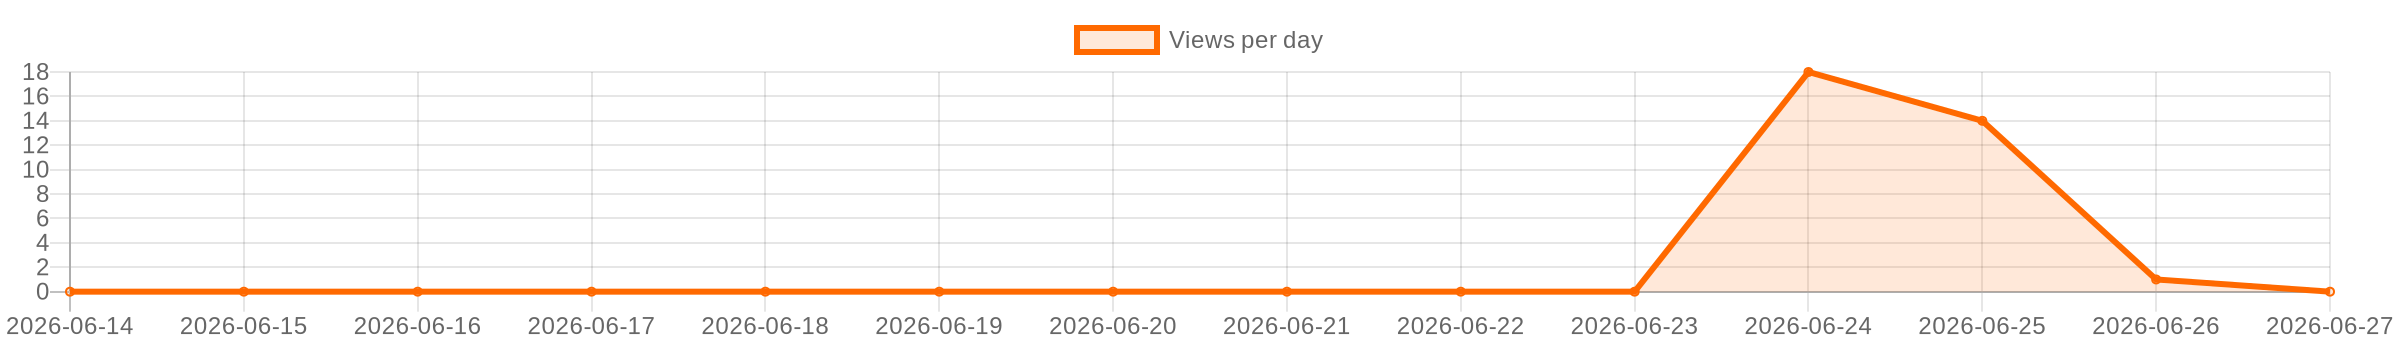
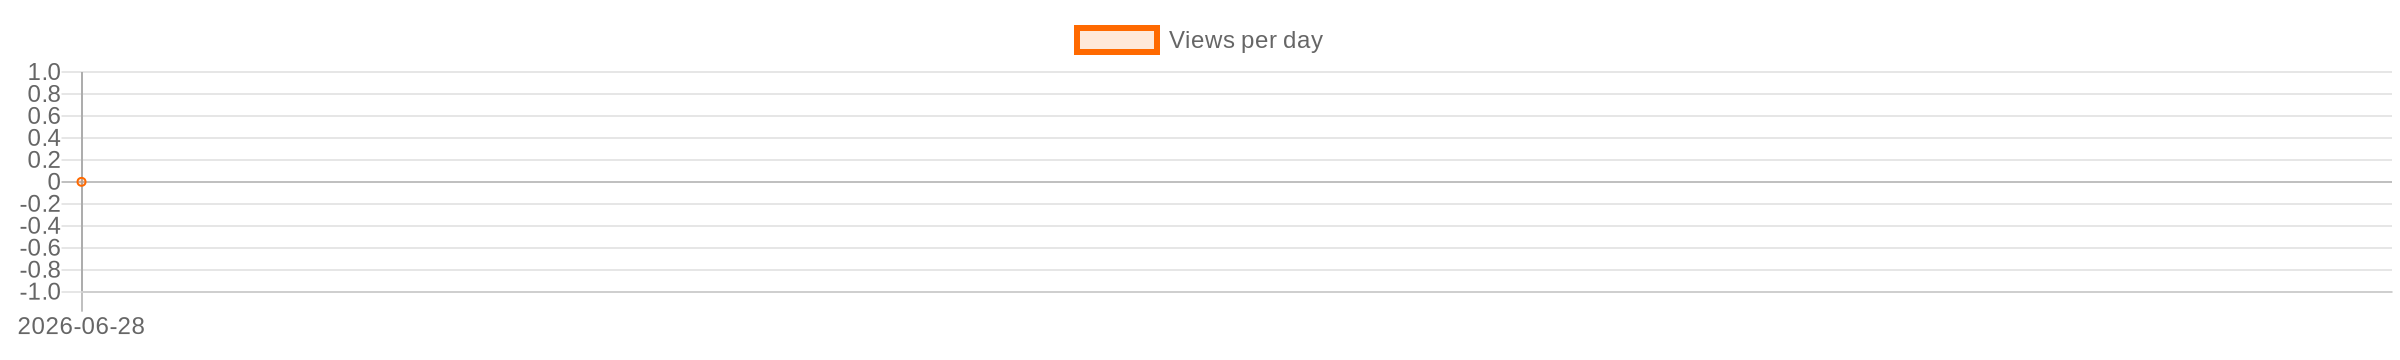
update README stats, graph, issues and translation [skip ci]

Changed region(s): [[0.0, 0.1833, 1.0, 0.825], [0.0, 0.8556, 1.0, 0.9472], [0.9688, 0.1833, 1.0, 0.2139]]

diff --git a/README.en.md b/README.en.md
@@ -13,12 +13,12 @@
 
 
 <!-- STATS_START -->
-<!-- auto-updated by GitHub Actions · 2026-06-28 13:59 UTC -->
+<!-- auto-updated by GitHub Actions · 2026-06-28 14:56 UTC -->
 
-[![Views local](https://img.shields.io/badge/Views_local-25-ff6900?style=for-the-badge&logo=github)](https://github.com/gooog1111/voicepack-tool-xiaomi-x20-pro-max)
-[![Views GitHub](https://img.shields.io/badge/Views_GitHub-33-ff6900?style=for-the-badge&logo=github)](https://github.com/gooog1111/voicepack-tool-xiaomi-x20-pro-max)
-[![Unique visitors](https://img.shields.io/badge/Unique-7-blue?style=for-the-badge&logo=github)](https://github.com/gooog1111/voicepack-tool-xiaomi-x20-pro-max)
-[![Clones](https://img.shields.io/badge/Clones-617-purple?style=for-the-badge&logo=github)](https://github.com/gooog1111/voicepack-tool-xiaomi-x20-pro-max)
+[![Views local](https://img.shields.io/badge/Views_local-26-ff6900?style=for-the-badge&logo=github)](https://github.com/gooog1111/voicepack-tool-xiaomi-x20-pro-max)
+[![Views GitHub](https://img.shields.io/badge/Views_GitHub-0-ff6900?style=for-the-badge&logo=github)](https://github.com/gooog1111/voicepack-tool-xiaomi-x20-pro-max)
+[![Unique visitors](https://img.shields.io/badge/Unique-0-blue?style=for-the-badge&logo=github)](https://github.com/gooog1111/voicepack-tool-xiaomi-x20-pro-max)
+[![Clones](https://img.shields.io/badge/Clones-0-purple?style=for-the-badge&logo=github)](https://github.com/gooog1111/voicepack-tool-xiaomi-x20-pro-max)
 [![Stars](https://img.shields.io/badge/Stars-0-yellow?style=for-the-badge&logo=github)](https://github.com/gooog1111/voicepack-tool-xiaomi-x20-pro-max/stargazers)
 [![Forks](https://img.shields.io/badge/Forks-0-green?style=for-the-badge&logo=github)](https://github.com/gooog1111/voicepack-tool-xiaomi-x20-pro-max/network/members)
 [![Downloads latest release](https://img.shields.io/badge/Downloads_latest_release-0-brightgreen?style=for-the-badge)](https://github.com/gooog1111/voicepack-tool-xiaomi-x20-pro-max/releases/latest)
@@ -48,7 +48,7 @@
 
 
 <!-- ISSUES_START -->
-<!-- auto-updated by GitHub Actions · 2026-06-28 13:59 UTC -->
+<!-- auto-updated by GitHub Actions · 2026-06-28 14:56 UTC -->
 
 ## Issues
 

diff --git a/README.md b/README.md
@@ -13,12 +13,12 @@
 
 
 <!-- STATS_START -->
-<!-- auto-updated by GitHub Actions · 2026-06-28 13:59 UTC -->
+<!-- auto-updated by GitHub Actions · 2026-06-28 14:56 UTC -->
 
-[![Views local](https://img.shields.io/badge/Views_local-25-ff6900?style=for-the-badge&logo=github)](https://github.com/gooog1111/voicepack-tool-xiaomi-x20-pro-max)
-[![Views GitHub](https://img.shields.io/badge/Views_GitHub-33-ff6900?style=for-the-badge&logo=github)](https://github.com/gooog1111/voicepack-tool-xiaomi-x20-pro-max)
-[![Unique visitors](https://img.shields.io/badge/Unique-7-blue?style=for-the-badge&logo=github)](https://github.com/gooog1111/voicepack-tool-xiaomi-x20-pro-max)
-[![Clones](https://img.shields.io/badge/Clones-617-purple?style=for-the-badge&logo=github)](https://github.com/gooog1111/voicepack-tool-xiaomi-x20-pro-max)
+[![Views local](https://img.shields.io/badge/Views_local-26-ff6900?style=for-the-badge&logo=github)](https://github.com/gooog1111/voicepack-tool-xiaomi-x20-pro-max)
+[![Views GitHub](https://img.shields.io/badge/Views_GitHub-0-ff6900?style=for-the-badge&logo=github)](https://github.com/gooog1111/voicepack-tool-xiaomi-x20-pro-max)
+[![Unique visitors](https://img.shields.io/badge/Unique-0-blue?style=for-the-badge&logo=github)](https://github.com/gooog1111/voicepack-tool-xiaomi-x20-pro-max)
+[![Clones](https://img.shields.io/badge/Clones-0-purple?style=for-the-badge&logo=github)](https://github.com/gooog1111/voicepack-tool-xiaomi-x20-pro-max)
 [![Stars](https://img.shields.io/badge/Stars-0-yellow?style=for-the-badge&logo=github)](https://github.com/gooog1111/voicepack-tool-xiaomi-x20-pro-max/stargazers)
 [![Forks](https://img.shields.io/badge/Forks-0-green?style=for-the-badge&logo=github)](https://github.com/gooog1111/voicepack-tool-xiaomi-x20-pro-max/network/members)
 [![Downloads latest release](https://img.shields.io/badge/Downloads_latest_release-0-brightgreen?style=for-the-badge)](https://github.com/gooog1111/voicepack-tool-xiaomi-x20-pro-max/releases/latest)
@@ -48,7 +48,7 @@
 
 
 <!-- ISSUES_START -->
-<!-- auto-updated by GitHub Actions · 2026-06-28 13:59 UTC -->
+<!-- auto-updated by GitHub Actions · 2026-06-28 14:56 UTC -->
 
 ## Issues
 
